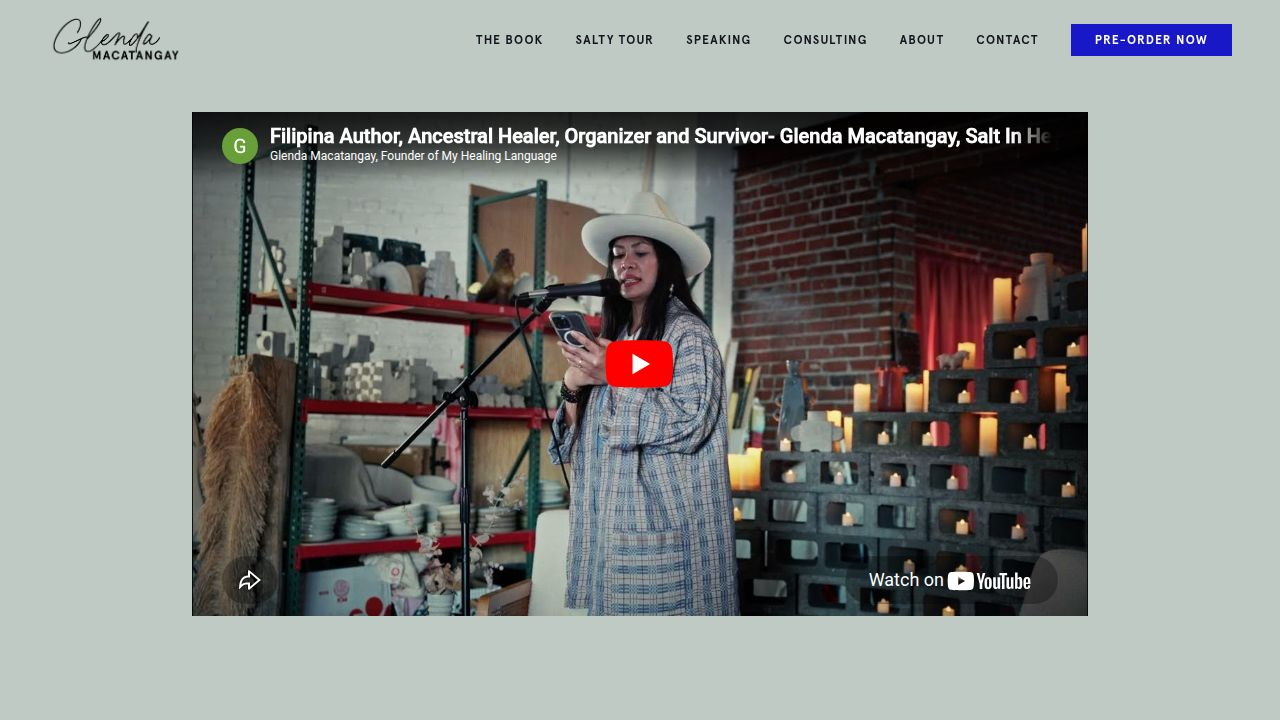
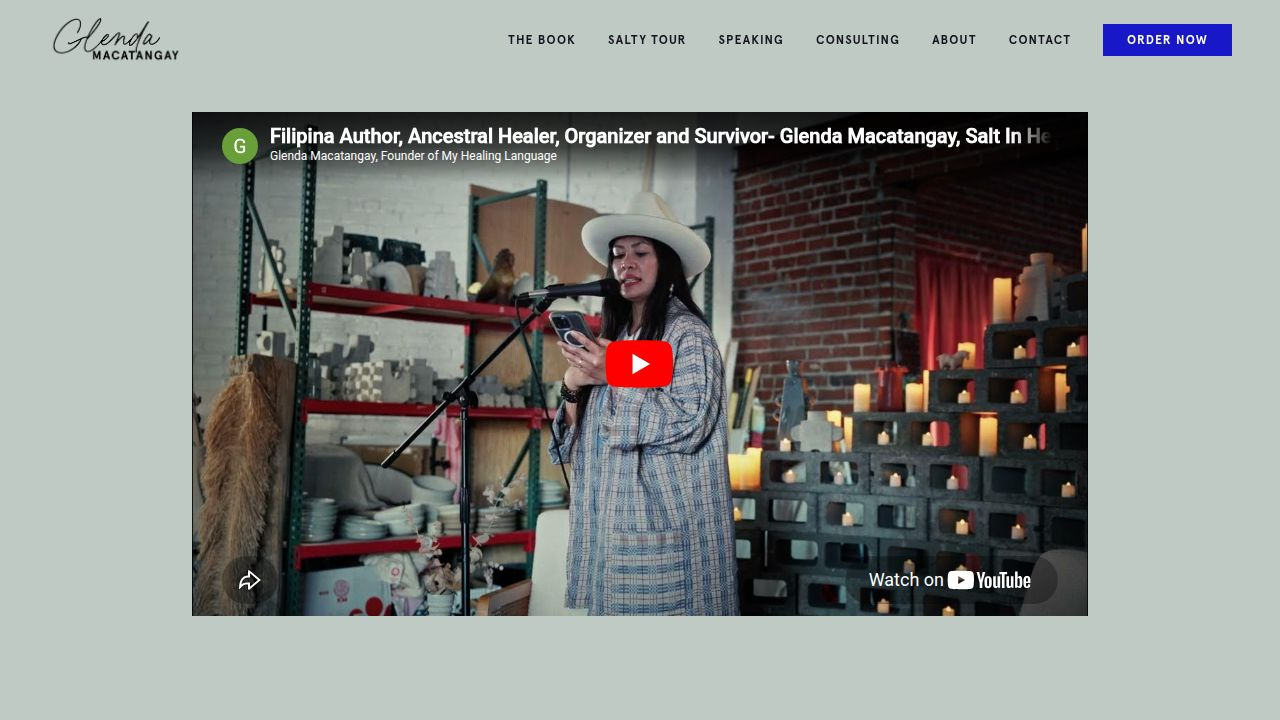
Add new tour dates and locations across multiple months
Adds several new tour dates for October, November, and December with placeholder information for city, time, and venue.

Replit-Commit-Author: Agent
Replit-Commit-Session-Id: f270db3e-2282-4197-926a-a5015501c6bf
Replit-Commit-Checkpoint-Type: full_checkpoint
Replit-Commit-Event-Id: caae4d12-b684-4f06-b788-9208417a90a9
Replit-Commit-Screenshot-Url: https://storage.googleapis.com/screenshot-production-us-central1/c9d8b89e-2845-4ee0-95fe-533dff25ffca/f270db3e-2282-4197-926a-a5015501c6bf/IQFjARq
Replit-Helium-Checkpoint-Created: true

Changed region(s): [[0.375, 0.0306, 0.875, 0.0917], [0.75, 0.7944, 0.8125, 0.825]]

diff --git a/client/src/pages/Tour.tsx b/client/src/pages/Tour.tsx
@@ -53,6 +53,11 @@ const FALLBACK_TOUR_DATES: TourDate[] = [
   { id: 26, city: "Nosara", state: "Costa Rica", date: "August 16-23", time: null, venue: null, rsvpLink: "https://myhealinglanguage.us14.list-manage.com/subscribe?u=797dcb18d0b3bd1a465515271&id=0488831fc9", description: null },
   { id: 20, city: "Anchorage", state: "AK", date: "September 3-5", time: null, venue: null, rsvpLink: "https://myhealinglanguage.us14.list-manage.com/subscribe?u=797dcb18d0b3bd1a465515271&id=0488831fc9", description: null },
   { id: 17, city: "San Diego", state: "CA", date: "September 24-26", time: null, venue: null, rsvpLink: "https://myhealinglanguage.us14.list-manage.com/subscribe?u=797dcb18d0b3bd1a465515271&id=0488831fc9", description: null },
+  { id: 27, city: "TBD", state: "", date: "October (TBD)", time: "TBD", venue: "TBD", rsvpLink: null, description: null },
+  { id: 28, city: "Joshua Tree", state: "CA", date: "October (TBD)", time: "TBD", venue: "TBD", rsvpLink: null, description: null },
+  { id: 29, city: "Lihue", state: "Kaua'i", date: "November (TBD)", time: "TBD", venue: "TBD", rsvpLink: null, description: null },
+  { id: 30, city: "Kona", state: "Big Island", date: "November (TBD)", time: "TBD", venue: "TBD", rsvpLink: null, description: null },
+  { id: 31, city: "Sacramento", state: "CA", date: "December (TBD)", time: "TBD", venue: "TBD", rsvpLink: null, description: null },
 ];
 
 export default function Tour() {
